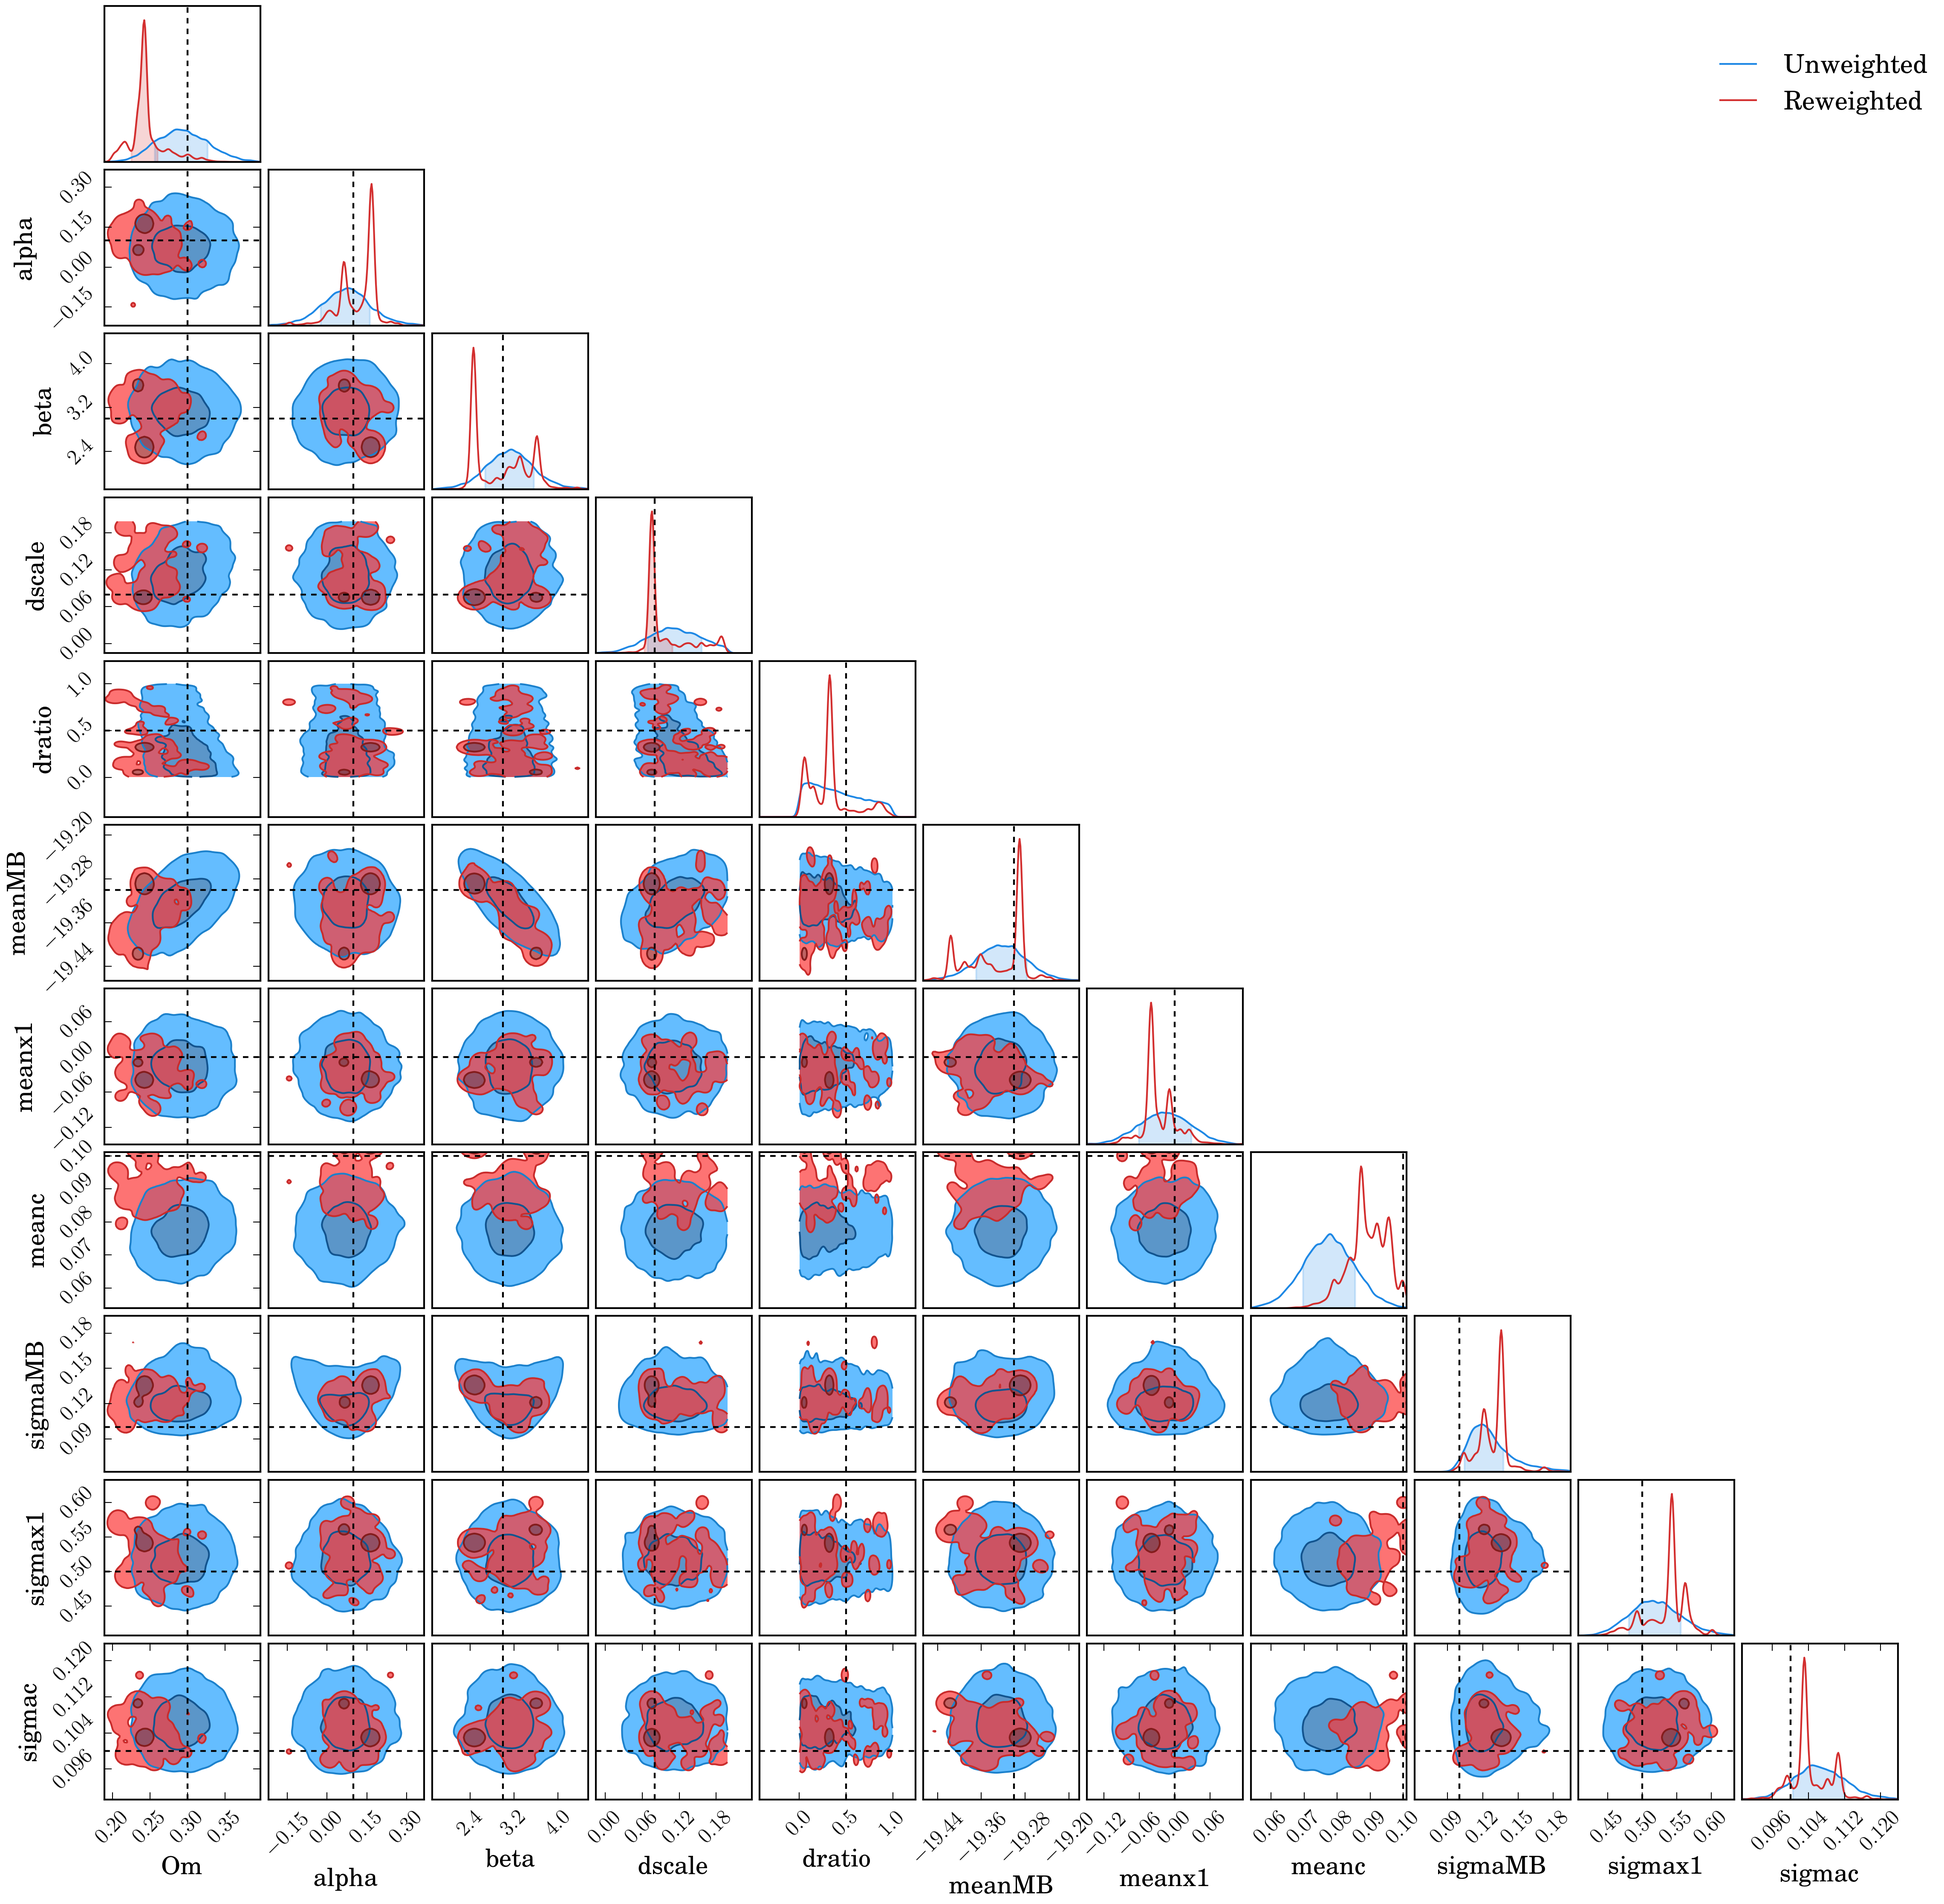
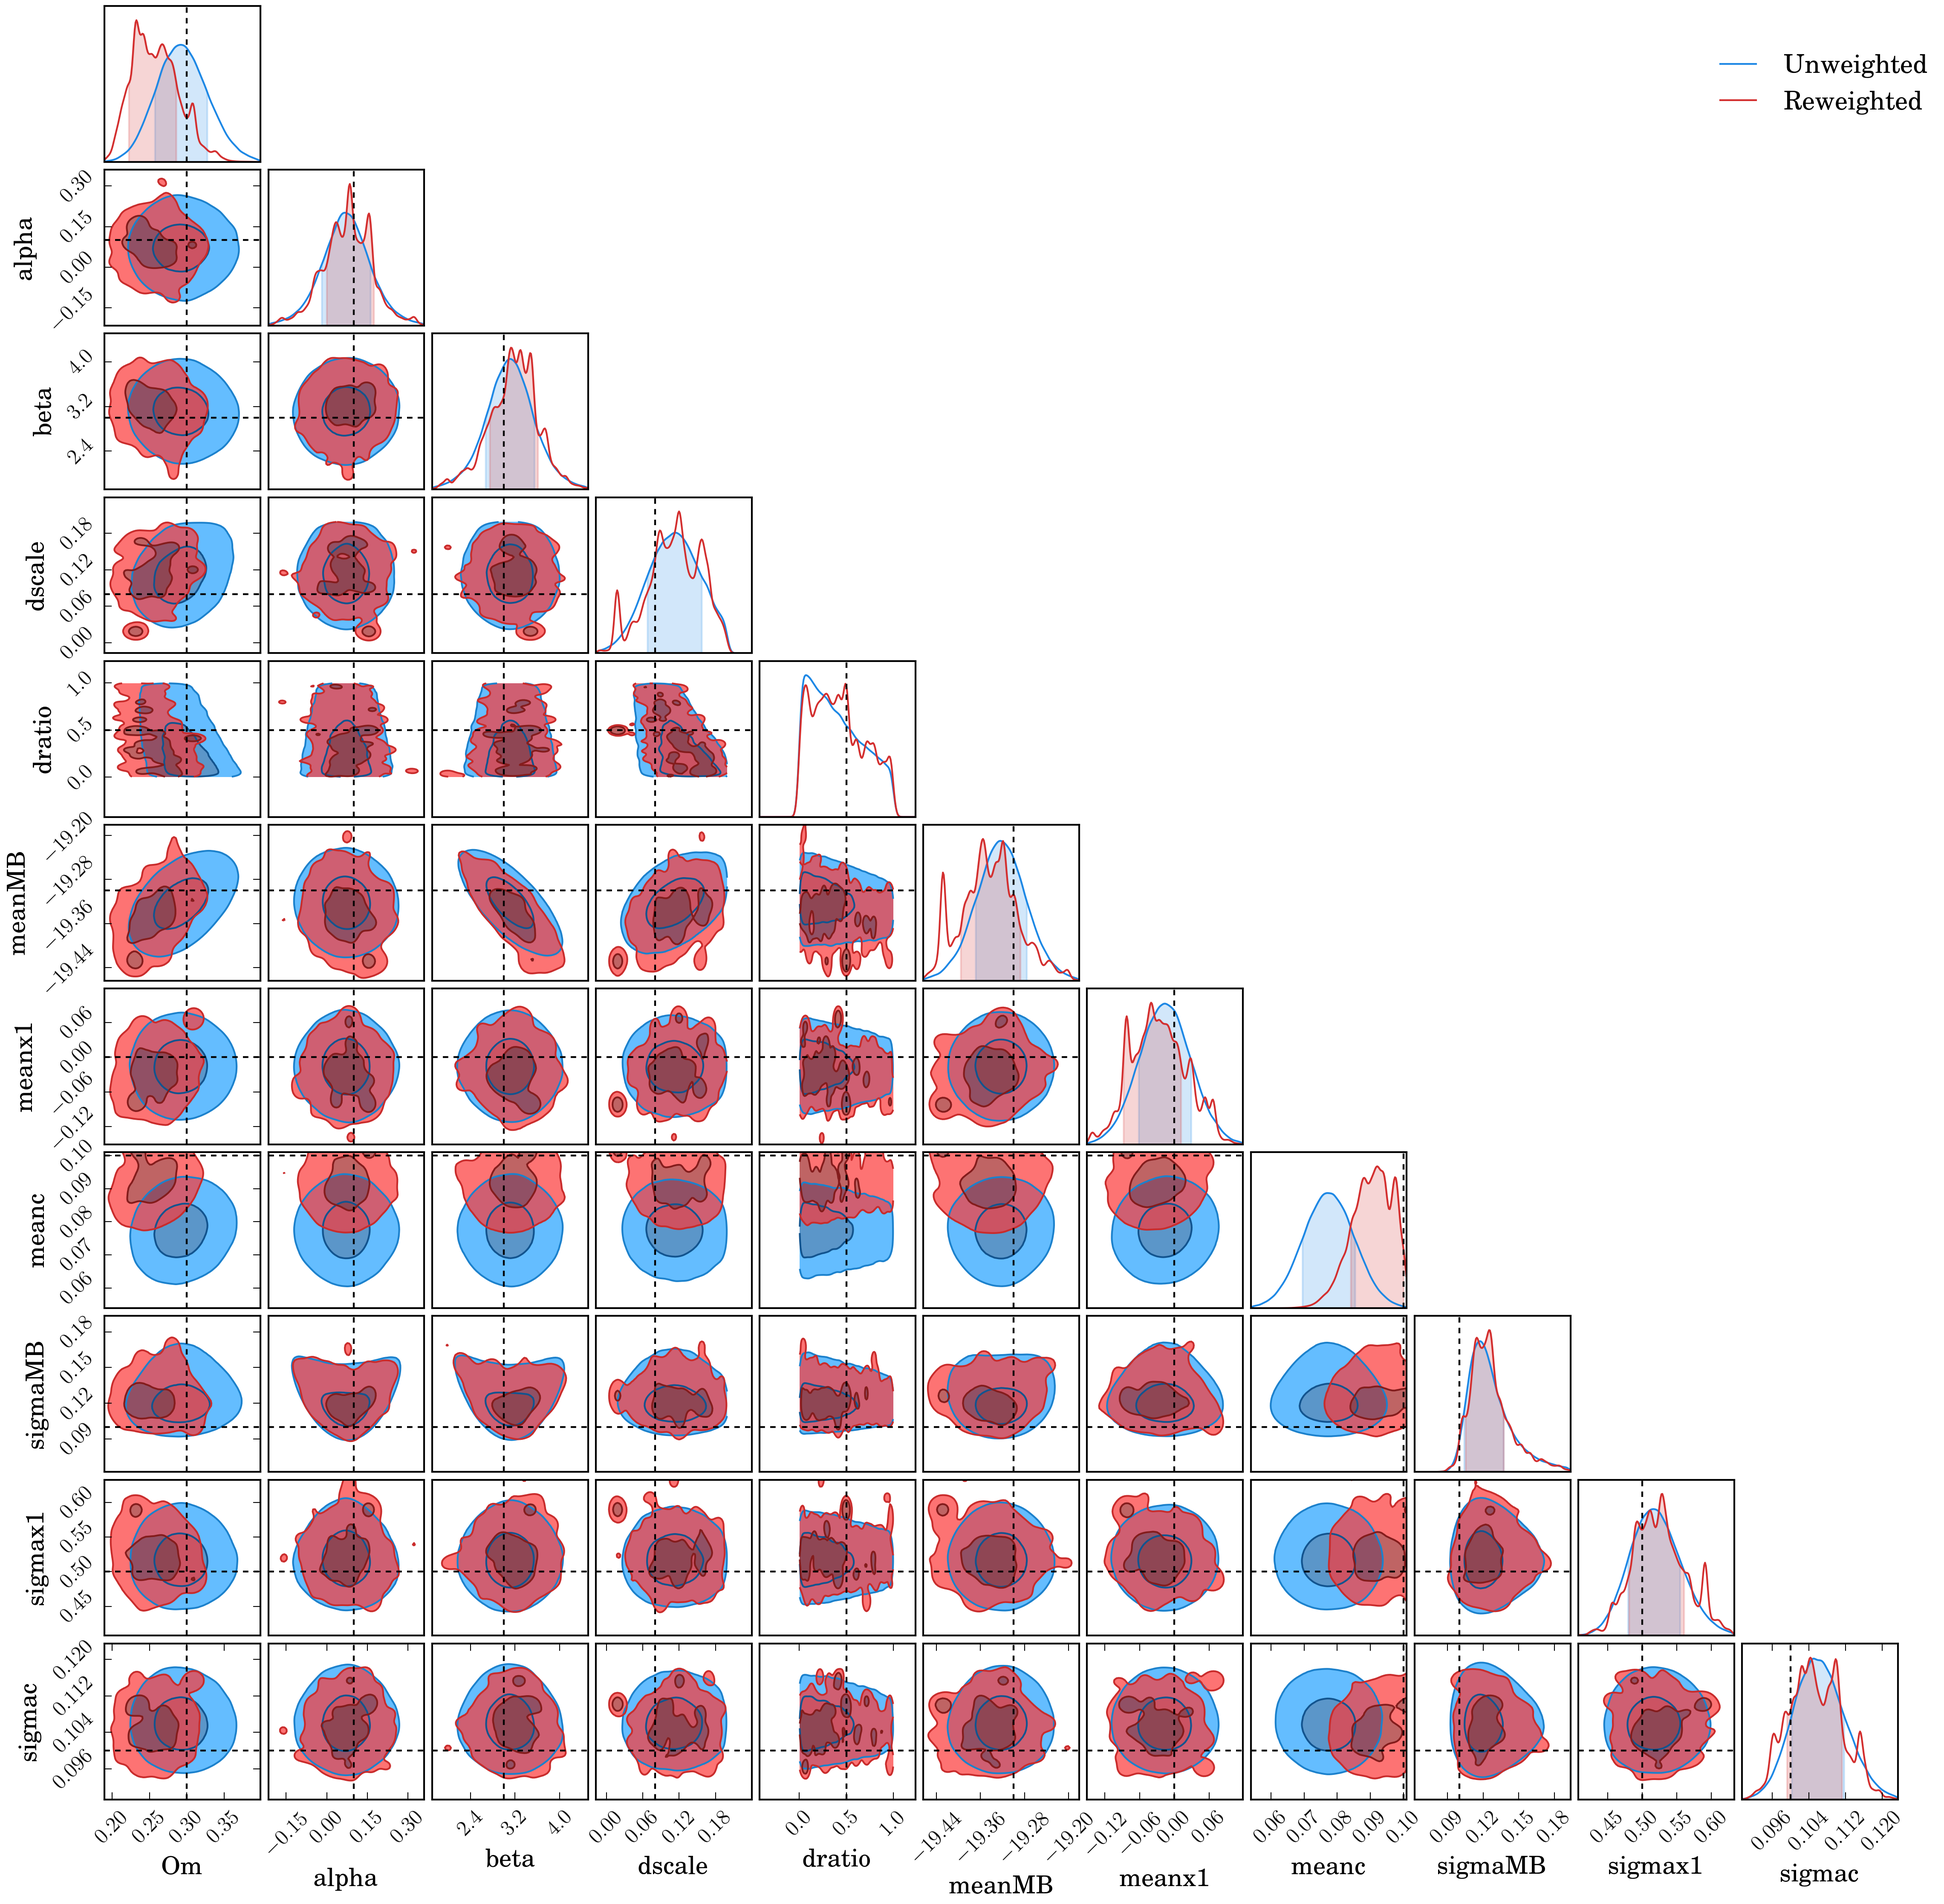
Better sampling

diff --git a/dessn/models/d_simple_stan/__init__.py b/dessn/models/d_simple_stan/__init__.py
@@ -311,8 +311,8 @@ frequency of observation, weather effects, etc. The selection effects we need to
         In blue we have the posterior surface for a likelihood that does not have any
         bias correction, and the red shows the same posterior after I have applied the
         :math:`w^-N` bias correction. Normalised to one, the mean weight of points
-        after resampling is :math:`0.0003`, with the minimum weighted point weighted
-        at :math:`1.92706802135\times 10^{-12}`. The staggeringly low weights attributed
+        after resampling is :math:`0.0002`, with the minimum weighted point weighted
+        at :math:`2.7\times 10^{-13}`. The staggeringly low weights attributed
         is an artifact of the concerns stated above. The only good news I can see in this
         posterior is that there *does* seem to be a shift in :math:`\langle c \rangle` towards
         the correct value.
@@ -349,14 +349,23 @@ frequency of observation, weather effects, etc. The selection effects we need to
         :math:`w^-N` bias correction. Normalised to one, the mean weight of points
         after resampling is :math:`0.001` (three times better than before),
         with the minimum weighted point weighted at :math:`1.92706802135\times 10^{-09}`.
-        Due to the increased number of steps I ran this for
 
-Having implemented a simple bias correction in STAN, we can see the effect when the
-correction is implemented explicitly in STAN
 
-.. figure::     ../dessn/models/d_simple_stan/output/complete_comparison.png
+Given the concerns with the importance sampling methods, I also decided to implement
+the bias corrections within STAN itself. Inserting the relevant data and structures
+into STAn such that I can perform Monte Carlo integration in a BHM framework significantly
+slows down the fits, however I believed it would at least give good results.
+
+.. figure::     ../dessn/models/d_simple_stan/output/complete_plot_full.png
     :align:     center
 
-    This is not what I want.
+    As you can see, I was wrong.
+
+In addition to the odd contours, we can also see in the walk itself that we have
+sampling issues, with some walkers sampling some areas of posterior space more than others.
+
+.. figure::     ../dessn/models/d_simple_stan/output/complete_plot_walk.png
+    :align:     center
+
 
 """
